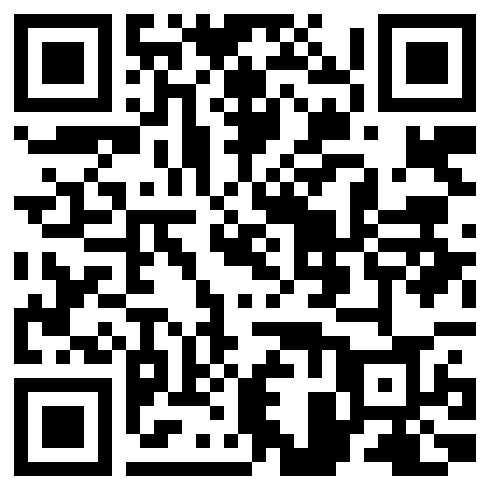
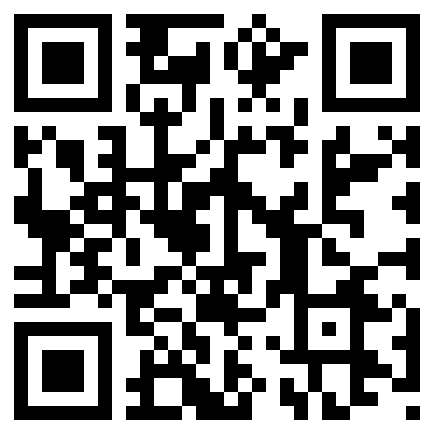
Update QR to GitHub Pages URL

diff --git a/lernen.html b/lernen.html
@@ -125,7 +125,7 @@
   </div>
   <div class="qrbox">
     <img src="qr-lernen.png" alt="扫码打开学习中心">
-    <div><b>手机打开</b><span>手机流量也能打开，用相机扫码即可。打不开说明这台 Mac 睡了或隧道断了，叫我重启。</span></div>
+    <div><b>手机打开</b><span>手机流量也能打开，用相机扫码即可。站点已部署在 GitHub Pages，长期可用。</span></div>
   </div>
 </main>
 
